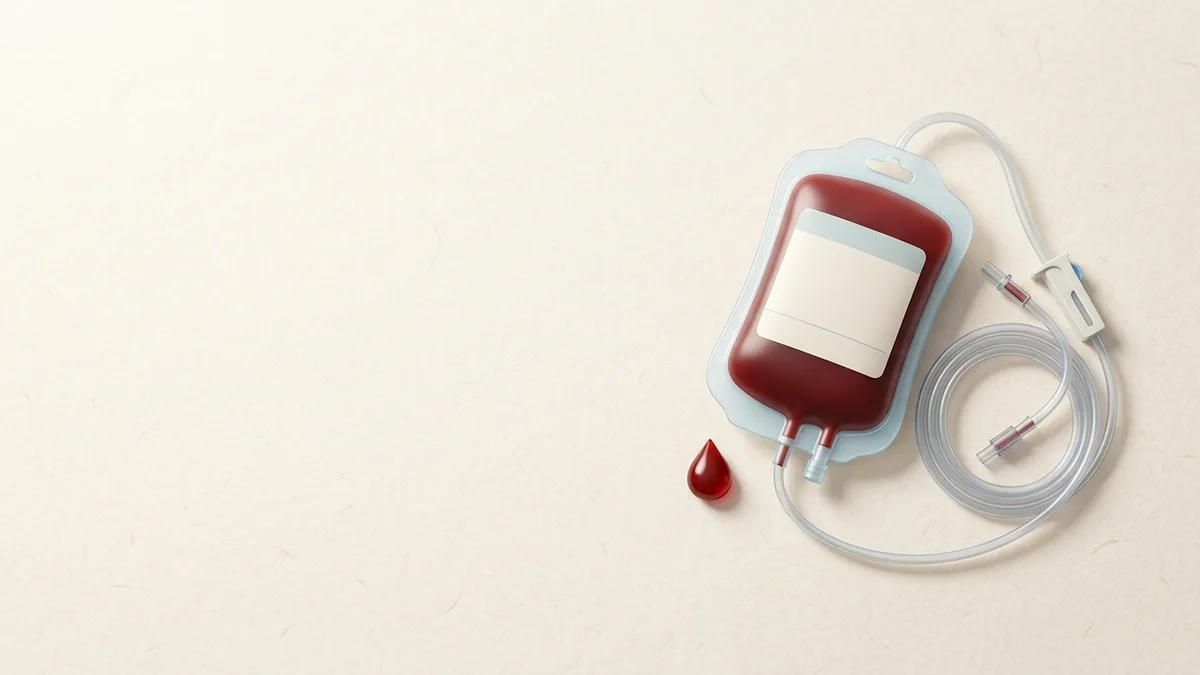
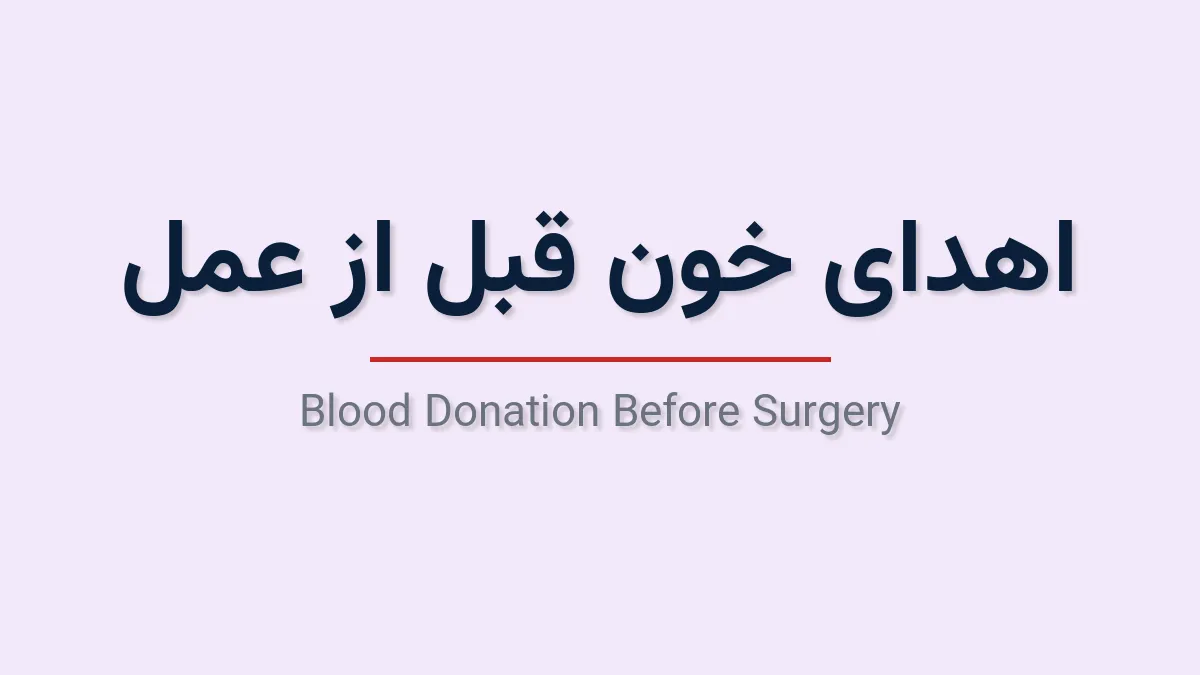
قانون تصویر شاخص (مدل ساده برای همه) و قانون حداقل یک اینفوگرافی؛ بازسازی کاور مقالهٔ اهدای خون

diff --git a/docs/content/ARTICLE-STYLE-GUIDE.fa.md b/docs/content/ARTICLE-STYLE-GUIDE.fa.md
@@ -127,15 +127,17 @@ H2 — پرسشهای متداول (۳–۵ سؤال کوتاه با FAQ Sche
 | عکس واقعی/اینفوگرافیک با alt | عکس استوک بیربط خارجی |
 
 ## قواعد تصویر و منابع (بهروز ۲۹ مهر ۱۴۰۵)
-- **تصویر شاخص:** ۱۲۰۰×۶۷۵ پیکسل (نسبت ۱۶:۹)، WebP، زیر ۱۸۰ کیلوبایت.
-- **تصویر آموزشی:** فقط وقتی به فهم کمک میکند. در هر مقاله حداکثر یک اینفوگرافی انگلیسی. زیر تصویر، توضیح کامل فارسی بیاید.
+- **تصویر شاخص:** ۱۲۰۰×۶۷۵ پیکسل (نسبت ۱۶:۹)، WebP، زیر ۱۸۰ کیلوبایت. **قانون (۳۰ مهر ۱۴۰۵):** همهٔ تصویرهای شاخص سایت همان مدل سادهاند: تیتر فارسی کوتاه، خط قرمز زیر آن و زیرعنوان انگلیسی؛ هیچ تصویر شاخص بدون این مدل منتشر نمیشود.
+- **اینفوگرافیک (قانون):** هر مقاله **حداقل یک اینفوگرافیک مرتبط** با موضوع مقاله دارد. زیر هر اینفوگرافیک، توضیح کامل فارسی بیاید. تصویر آموزشی باید به فهم کمک کند، نه صرفاً تزئین باشد.
 - **توضیح هوش مصنوعی:** فقط یکبار، در اولین مقالهای که اینفوگرافی دارد. در مقالههای بعدی تکرار نشود.
 - **منابع:** بین ۱ تا ۱۰ منبع معتبر که واقعاً در متن استفاده شدهاند. هر منبع با نام و لینک در بخش منابع بیاید.
 - **سلب مسئولیت و ۱۱۵:** در متن مقالهها نیامدهاند. سلب مسئولیت در خود سایت نمایش داده میشود.
 - **هشدار:** مقالهها بدون کادر زرد یا قرمز و بدون تکرار «برو پیش دکتر» نوشته شوند. فقط در جای لازم، یک جملهی مشخص کافی است.
 - **صدا:** کل سایت و همهی مقالهها اول شخص نوشته شوند.
 
-## تصویر شاخص ساده (برای همهی مقالهها، ۱۶:۹)
+## تصویر شاخص ساده (قانون همهی تصویرهای شاخص سایت، ۱۶:۹)
+
+- این مدل برای **همهی** تصویرهای شاخص سایت اجباری است؛ مقالههای جدید هم همین مدل را دارند (تصویر سهبعدی بیمتن دیگر استفاده نمیشود).
 
 - ابعاد ۱۲۰۰×۶۷۵. زمینهٔ یکرنگ بسیار روشن، زلال و نرم که برای هر مقاله بهصورت تصادفی از پالت انتخاب و در `tools/featured-cover-map.json` ثبت میشود.
 - نام کوتاه فارسی با رنگ سرمهای تیره و سایهٔ بسیار کم فقط زیر متن فارسی؛ یک خط باریک قرمز؛ زیرعنوان انگلیسی خاکستری.

diff --git a/docs/PROJECT-CHANGELOG.md b/docs/PROJECT-CHANGELOG.md
@@ -16,6 +16,12 @@
 - نسخهٔ `functions.php`، `style.css`، `readme.txt`، `CHANGELOG.md`، `releases/lax-theme-child.zip` و `releases/orsite-release.json` همه روی ۰٫۲۸٫۱ هماهنگ شدند؛ تستهای نسخه و تست صفحهی اول پاس شدند.
 - **نصبشده روی سایت زنده:** هنوز ۰٫۲۷٫۰ یا قدیمیتر؛ نسخهٔ ۰٫۲۸٫۱ باید از داشبورد نصب و بررسی شود.
 
+## [قانون تصویر شاخص و اینفوگرافیک، ۲۰۲۶-۱۰-۳۰] — 2026-10-30
+
+- **قانون تصویر شاخص:** همهٔ تصویرهای شاخص سایت همان مدل سادهاند: تیتر فارسی کوتاه، خط قرمز زیر آن، زیرعنوان انگلیسی و زمینهٔ روشن نرم. ثبت در `docs/content/ARTICLE-STYLE-GUIDE.fa.md`.
+- **قانون اینفوگرافیک:** هر مقاله حداقل یک اینفوگرافیک مرتبط با موضوع دارد، با توضیح کامل فارسی زیر آن. ثبت در همان سند.
+- مقالهٔ `blood-donation-reserve-before-surgery` با همین مدل ساده بازسازی شد (قبلاً تصویر بیمتن بود). این مقاله هنوز **اینفوگرافیک ندارد** و در انتظار تولید است.
+
 ## [تصویر شاخص ساده، ۲۰۲۶-۱۰-۳۰] — 2026-10-30
 
 - تصویر شاخص همهٔ ۶۱ پوشهٔ مقاله با طراحی ساده عوض شد: زمینهٔ روشن تصادفی، نام کوتاه فارسی با سایهٔ کم، خط قرمز و زیرعنوان انگلیسی. ۱۶:۹ و ۱۲۰۰×۶۷۵.
